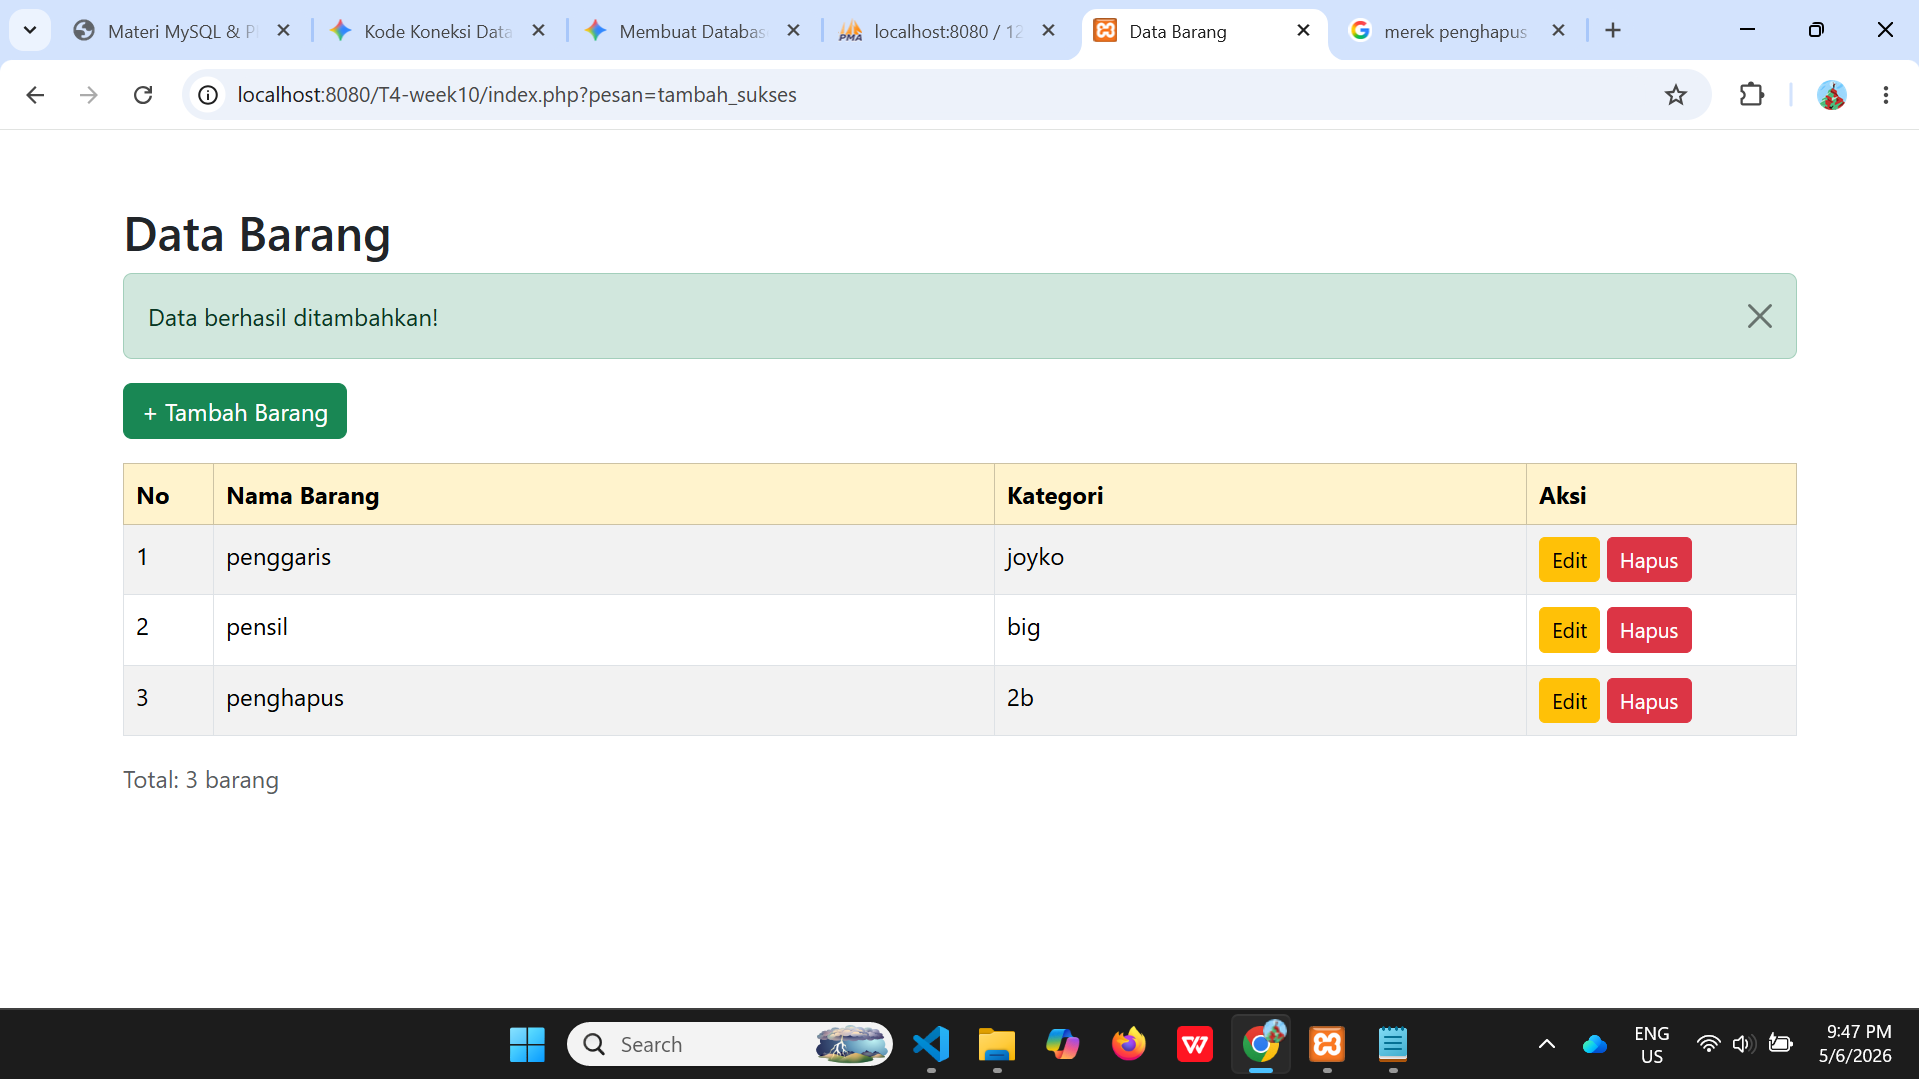
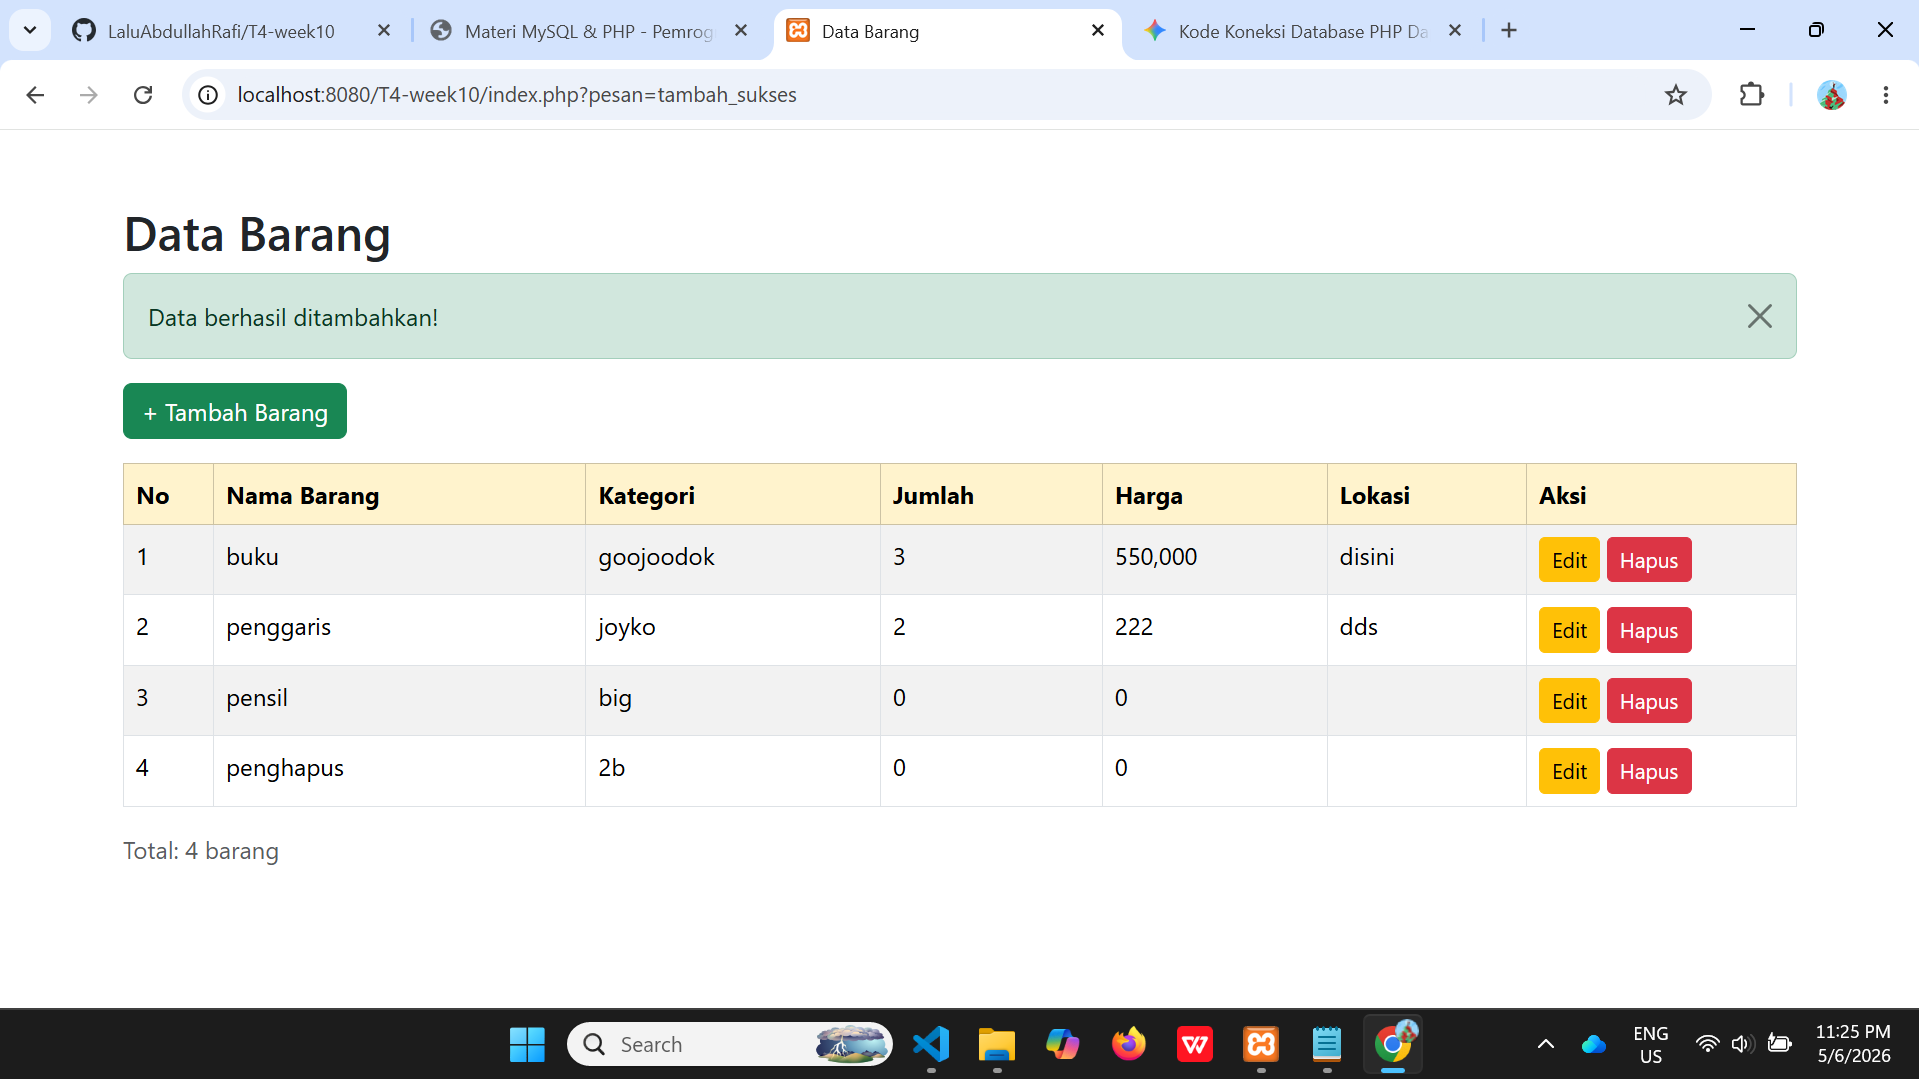
update

diff --git a/create.php b/create.php
@@ -5,12 +5,18 @@ $pesan = '';
 if ($_SERVER['REQUEST_METHOD'] === 'POST') {
     $nama_barang = trim($_POST['nama_barang'] ?? '');
     $kategori    = trim($_POST['kategori'] ?? '');
+    $jumlah      = trim($_POST['jumlah'] ?? '');
+    $harga       = trim($_POST['harga'] ?? '');
+    $lokasi      = trim($_POST['lokasi'] ?? '');
 
     if (!empty($nama_barang) && !empty($kategori)) {
-        $stmt = $pdo->prepare("INSERT INTO barang (nama_barang, kategori) VALUES (:nama_barang, :kategori)");
+        $stmt = $pdo->prepare("INSERT INTO barang (nama_barang, kategori, jumlah, harga, lokasi) VALUES (:nama_barang, :kategori, :jumlah, :harga, :lokasi)");
         $stmt->execute([
             ':nama_barang' => $nama_barang,
-            ':kategori'    => $kategori
+            ':kategori'    => $kategori,
+            ':jumlah'      => $jumlah,
+            ':harga'       => $harga,
+            ':lokasi'      => $lokasi
         ]);
 
         header("Location: index.php?pesan=tambah_sukses");
@@ -45,6 +51,18 @@ if ($_SERVER['REQUEST_METHOD'] === 'POST') {
         <div class="mb-3">
             <label class="form-label">Kategori</label>
             <input type="text" name="kategori" class="form-control" required>
+        </div>
+        <div class="mb-3">
+            <label class="form-label">Jumlah</label>
+            <input type="number" name="jumlah" class="form-control" required>
+        </div>
+        <div class="mb-3">
+            <label class="form-label">Harga</label>
+            <input type="number" name="harga" class="form-control" required>
+        </div>
+        <div class="mb-3">
+            <label class="form-label">Lokasi</label>
+            <input type="text" name="lokasi" class="form-control" required>
         </div>
         <button type="submit" class="btn btn-success">Simpan</button>
         <a href="index.php" class="btn btn-secondary">Kembali</a>

diff --git a/edit.php b/edit.php
@@ -17,13 +17,19 @@ if (!$data) {
 if ($_SERVER['REQUEST_METHOD'] === 'POST') {
     $nama_barang = trim($_POST['nama_barang'] ?? '');
     $kategori    = trim($_POST['kategori'] ?? '');
+    $jumlah      = trim($_POST['jumlah'] ?? '');
+    $harga       = trim($_POST['harga'] ?? '');
+    $lokasi      = trim($_POST['lokasi'] ?? '');
 
     if (!empty($nama_barang) && !empty($kategori)) {
-        $stmt = $pdo->prepare("UPDATE barang SET nama_barang = :nama_barang, kategori = :kategori WHERE id = :id");
+        $stmt = $pdo->prepare("UPDATE barang SET nama_barang = :nama_barang, kategori = :kategori, jumlah = :jumlah, harga = :harga, lokasi = :lokasi WHERE id = :id");
         $stmt->execute([
             ':nama_barang' => $nama_barang,
             ':kategori'    => $kategori,
-            ':id'           => $id
+            ':jumlah'      => $jumlah,
+            ':harga'       => $harga,
+            ':lokasi'      => $lokasi,
+            ':id'          => $id
         ]);
         header("Location: index.php?pesan=edit_sukses");
         exit;
@@ -57,6 +63,18 @@ if ($_SERVER['REQUEST_METHOD'] === 'POST') {
         <div class="mb-3">
             <label class="form-label">Kategori</label>
             <input type="text" name="kategori" class="form-control" value="<?= htmlspecialchars($data['kategori']) ?>" required>
+        </div>
+        <div class="mb-3">
+            <label class="form-label">Jumlah</label>
+            <input type="number" name="jumlah" class="form-control" value="<?= htmlspecialchars($data['jumlah']) ?>" required>
+        </div>
+        <div class="mb-3">
+            <label class="form-label">Harga</label>
+            <input type="number" name="harga" class="form-control" value="<?= htmlspecialchars($data['harga']) ?>" required>
+        </div>
+        <div class="mb-3">
+            <label class="form-label">Lokasi</label>
+            <input type="text" name="lokasi" class="form-control" value="<?= htmlspecialchars($data['lokasi']) ?>" required>
         </div>
         <button type="submit" class="btn btn-primary">Update</button>
         <a href="index.php" class="btn btn-secondary">Kembali</a>

diff --git a/index.php b/index.php
@@ -39,6 +39,9 @@ $pesan = $_GET['pesan'] ?? '';
                 <th width="60">No</th>
                 <th>Nama Barang</th>
                 <th>Kategori</th>
+                <th>Jumlah</th>
+                <th>Harga</th>
+                <th>Lokasi</th>
                 <th width="180">Aksi</th>
             </tr>
         </thead>
@@ -50,6 +53,9 @@ $pesan = $_GET['pesan'] ?? '';
                     <td><?= $no++ ?></td>
                     <td><?= htmlspecialchars($row['nama_barang']) ?></td>
                     <td><?= htmlspecialchars($row['kategori']) ?></td>
+                    <td><?= htmlspecialchars($row['jumlah']) ?></td>
+                    <td><?= number_format($row['harga']) ?></td>
+                    <td><?= htmlspecialchars($row['lokasi']) ?></td>
                     <td>
                         <a href="edit.php?id=<?= $row['id'] ?>" class="btn btn-warning btn-sm">Edit</a>
                         <a href="delete.php?id=<?= $row['id'] ?>" class="btn btn-danger btn-sm" onclick="return confirm('Yakin hapus?')">Hapus</a>

diff --git a/README.md b/README.md
@@ -27,4 +27,4 @@ Aplikasi CRUD (Create, Read, Update, Delete) menggunakan PHP, MySQL, dan Bootstr
 ![edit](screenshot/edit.png)
 
 ### Struktur Database (phpMyAdmin)
-![database](screenshot/database2.png)
+![database](screenshot/database.png)